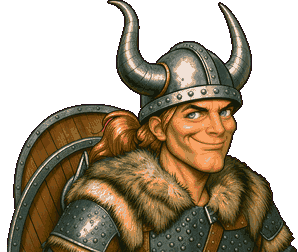
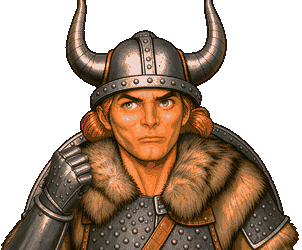
Point & click saison 1 : portraits du héros refaits (hp3) depuis une base au bouclier modeste et centré, même taille et même place dans toutes les poses (contrôle automatique), gantelet de métal dans les deux frappes

diff --git a/easter eggs/pointclick/tools/gen_portraits3.py b/easter eggs/pointclick/tools/gen_portraits3.py
@@ -1,0 +1,83 @@
+#!/usr/bin/env python3
+"""Portraits du héros, 3e version (27/11/2026) : toutes les poses calculées en entier depuis work/hp3/base.png, avec un contrôle
+automatique du bouclier. Le bouclier dépasse de chaque côté du personnage, au-dessus des épaules : la silhouette mesurée à trois
+hauteurs (bords gauche et droit) doit rester celle de la base. Une main ou un bras peut élargir un côté, jamais le rétrécir ; un
+côté au moins doit coller à la base. Pose hors tolérance : recalculée avec une autre graine (jusqu'à TRIES essais), meilleure gardée.
+Aucune retouche d'image. Usage (python de FLUX) : gen_portraits3.py [pose…]   ;   gen_portraits3.py --mesure fichier.png"""
+import sys, os, subprocess, json
+import numpy as np
+from PIL import Image
+
+W = os.path.join(os.path.dirname(os.path.abspath(__file__)), '..', 'work', 'hp3')
+ROWS = (0.56, 0.62, 0.68)          # hauteurs de mesure : bord du bouclier de part et d'autre des épaules (base 1211)
+TOL = 0.022                        # tolérance, en fraction de la largeur de l'image (~28 px sur 1280)
+TRIES = int(os.environ.get('TRIES', 4))
+SH = ("Exactly the same MODEST round wooden shield as in the reference, same size, same position, strapped flat and centered on his back: "
+      "only its upper edge peeks out behind his neck and a little beyond each shoulder. Same camera distance and framing as the reference.")
+B = ("No border, no frame, full-bleed flat solid magenta background. The same close-up portrait, same framing, same horned helmet and face, "
+     "same painting style. " + SH)
+HB = B + " Both hands fully inside the picture."
+POSES = [  # nom, référence, graine de départ, consigne
+    ('talk', 'base', 3100, B + " Mouth wide open talking, eyebrows raised."),
+    ('blink', 'base', 3110, B + " Eyes closed, wry smirk."),
+    ('sleepy', 'base', 3120, B + " Half-closed tired eyes, a yawning wide open mouth."),
+    ('knock1', 'base', 3130, B + " His armored gloved fist is raised in the foreground very close to the viewer, knuckles huge, knocking on a glass screen, his face slightly behind it looking at the viewer expectantly with raised eyebrows."),
+    ('knock2', 'base', 3540, HB + " His right hand, wearing a steel plated armored gauntlet, is a clenched fist raised beside his shoulder after knocking, head tilted, eyebrows raised, listening with a questioning look."),
+    ('point', 'base', 3150, HB + " He is pointing his index finger straight at the viewer, eyebrows raised, mouth closed."),
+    ('shrug', 'base', 3560, B + " He is shrugging: both palms turned up at the height of his collar, just above his shoulders, elbows tucked in, awkward smile, mouth closed. Same close-up camera distance as the reference: the head is exactly as big as in the reference, the hands are cropped at the picture edges if needed."),
+    ('plead', 'base', 3170, HB + " Both of his hands are pressed palm to palm in front of his chest in a pleading gesture, big puppy eyes, mouth closed."),
+    ('think', 'base', 3180, HB + " He holds his right hand up to his face, fingers and thumb touching his chin, thinking hard, one eyebrow raised, mouth closed."),
+    ('wave', 'base', 3190, HB + " His right hand is raised beside his head, open palm facing the viewer, fingers spread, waving hello, friendly grin, mouth closed."),
+    ('lean', 'base', 3200, B + " He leans his head forward toward the viewer, squinting suspiciously, mouth closed."),
+]
+for k in ('point', 'shrug', 'plead', 'think', 'wave', 'lean'):
+    POSES.append((k + '_t', k, 3300 + len(POSES) * 10, B + " Exactly the same pose and gesture, same hands, but his mouth is wide open talking."))
+
+def mesure(path):
+    a = np.asarray(Image.open(path).convert('RGB')).astype(int); h, w, _ = a.shape
+    bg = np.median(np.concatenate([a[:20, :20].reshape(-1, 3), a[:20, -20:].reshape(-1, 3)]), axis=0)
+    m = np.sqrt(((a - bg) ** 2).sum(2)) > 70
+    out = []
+    for r in ROWS:
+        row = m[int(r * h) - 3:int(r * h) + 4].any(0); xs = np.where(row)[0]
+        out.append((xs[0] / w, xs[-1] / w) if len(xs) else (0.5, 0.5))
+    return out
+
+def ecart(ref, cur):
+    """0 = identique ; grand = bouclier d'une autre taille. Un côté peut s'élargir (bras), pas rétrécir."""
+    worst = 0
+    for (l0, r0), (l, r) in zip(ref, cur):
+        dl, dr = l - l0, r0 - r                      # > 0 : ce côté est plus étroit que la base
+        if dl > TOL or dr > TOL: worst = max(worst, 10 + max(dl, dr)); continue   # rétréci : bouclier plus petit
+        worst = max(worst, min(abs(dl), abs(dr)))    # le côté qui colle le mieux doit coller
+    return worst
+
+def gen(name, ref, seed, prompt):
+    out = os.path.join(W, f'hp_{name}.png')
+    subprocess.run(['flux-image', prompt, '-i', ref, '-o', out, '-s', '1280x1024', '--seed', str(seed)], stdout=subprocess.DEVNULL, stderr=subprocess.DEVNULL)
+    return out
+
+if __name__ == '__main__':
+    if sys.argv[1:2] == ['--mesure']:
+        for p in sys.argv[2:]: print(p, [(round(l, 3), round(r, 3)) for l, r in mesure(p)])
+        sys.exit()
+    base = os.path.join(W, 'base.png'); ref = mesure(base)
+    only = set(sys.argv[1:]); rep = {}
+    for name, rk, seed0, prompt in POSES:
+        if only and name not in only: continue
+        dst = os.path.join(W, f'hp_{name}.png')
+        if os.path.exists(dst) and not only: continue
+        rpath = base if rk == 'base' else os.path.join(W, f'hp_{rk}.png')
+        best = (9e9, None)
+        for t in range(TRIES):
+            tmp = gen(f'{name}_try{t}', rpath, seed0 + t, prompt)
+            if not os.path.exists(tmp): continue
+            e = ecart(ref, mesure(tmp)); print(f'{name} essai {t} : écart {e:.3f}', flush=True)
+            if e < best[0]:
+                if best[1]: os.replace(best[1], best[1].replace('.png', '_rejet.png'))
+                best = (e, tmp)
+            else: os.replace(tmp, tmp.replace('.png', '_rejet.png'))
+            if e <= TOL * 0.6: break
+        if best[1]: os.replace(best[1], dst); rep[name] = round(best[0], 3); print(f'{name} retenu, écart {best[0]:.3f}', flush=True)
+    json.dump(rep, open(os.path.join(W, 'controle.json'), 'w'), indent=1)
+    print('done', rep)
